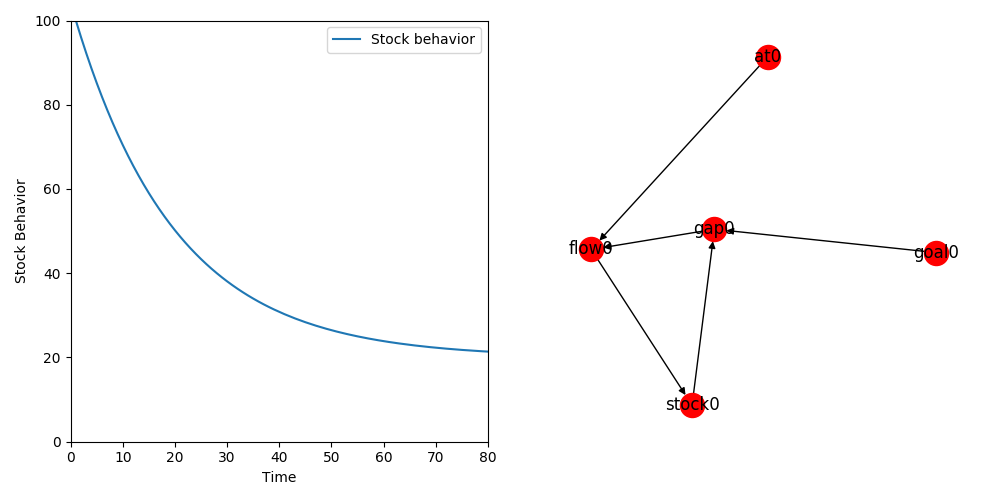
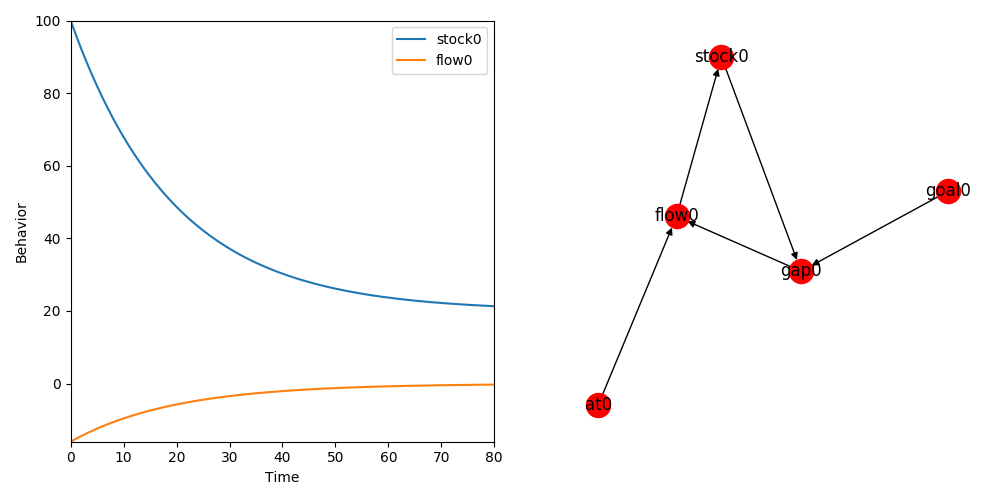
Wrapped up codes for running simulation in class 'Session'

diff --git a/__main__.py b/__main__.py
@@ -1,9 +1,8 @@
 import networkx as nx
 import matplotlib.pyplot as plt
 
+
 # define functions
-
-
 def linear(x, a=1, b=0):
     return a * float(x) + b
 
@@ -15,9 +14,8 @@ def subtract(x, y):
 def division(x, y):
     return float(x) / float(y)
 
+
 # define constants
-
-
 STOCK = 'stock'
 FLOW = 'flow'
 VARIABLE = 'variable'
@@ -28,16 +26,16 @@ DIVISION = division
 
 
 class Structure(object):
-    def __init__(self, simulation_time=20, dt=0.25):
-        self.sfd = nx.MultiDiGraph(simulation_time=simulation_time, dt=dt)  # model parameters as graph's attributes
+    def __init__(self):
+        self.sfd = nx.MultiDiGraph()
 
-    def add_element(self, name, element_type, function=None, value=None):
+    def add_element(self, element_name, element_type, function=None, value=None):
         # this 'function' is a list, containing the function it self and its parameters
         # this 'value' is also a list, containing historical value throughout this simulation
-        self.sfd.add_node(name, element_type=element_type, function=function, value=value)
+        self.sfd.add_node(element_name, element_type=element_type, function=function, value=value)
 
-    def add_causality(self, from_element, to_element, function=None):
-        self.sfd.add_edge(from_element, to_element, function)
+    def add_causality(self, from_element, to_element):
+        self.sfd.add_edge(from_element, to_element)
 
     def display_elements(self):
         print('All elements in this SFD:')
@@ -73,7 +71,7 @@ class Structure(object):
             self.sfd.nodes[name]['value'].append(new_value)  # add this new value to this node's value list
             return new_value  # return the new value to where it was called
 
-    def step(self):
+    def step(self, dt=0.25):
         flows_dt = dict()  # have a dictionary of flows and their values in this dt, to be added to stocks afterward.
 
         # find all flows in the model
@@ -83,7 +81,7 @@ class Structure(object):
 
         # calculate flows
         for flow in flows_dt.keys():
-            flows_dt[flow] = self.sfd.graph['dt'] * self.calculate(flow)
+            flows_dt[flow] = dt * self.calculate(flow)
         print('All flows dt:', flows_dt)
 
         # calculating changes in stocks
@@ -106,49 +104,48 @@ class Structure(object):
 
 
 class Session(object):
-    def __init__(self, simulation_time=13, dt=0.25):
-        self.model = Structure(simulation_time, dt)
+    def __init__(self):
+        self.simulation_time = 13
+        self.dt = 0.25
+        self.structures = dict()
+        self.add_structure()
 
-        self.simulation_time = self.model.sfd.graph['simulation_time']
-        self.dt = self.model.sfd.graph['dt']
+    def add_structure(self, structure_name='default'):
+        self.structures[structure_name] = Structure()
 
-        self.maximum_steps = int(self.simulation_time/self.dt)
+    # Set the model to a first order negative feedback loop
+    def first_order_negative(self, structure_name='default'):
+        self.structures[structure_name].add_element('stock0', STOCK, value=[100])
+        self.structures[structure_name].add_element('flow0', FLOW, function=[DIVISION, 'gap0', 'at0'], value=list())
+        self.structures[structure_name].add_causality('flow0', 'stock0')
 
-        self.model.add_element('stock0', STOCK, value=[100])
-        self.model.add_element('flow0', FLOW, function=[DIVISION, 'gap0', 'at0'], value=list())
-        self.model.add_causality('flow0', 'stock0')
+        self.structures[structure_name].add_element('goal0', PARAMETER, value=[20])
+        self.structures[structure_name].add_element('gap0', VARIABLE, function=[SUBTRACT, 'goal0', 'stock0'], value=list())
+        self.structures[structure_name].add_causality('stock0', 'gap0')
+        self.structures[structure_name].add_causality('goal0', 'gap0')
 
-        self.model.add_element('goal0', PARAMETER, value=[20])
-        self.model.add_element('gap0', VARIABLE, function=[SUBTRACT, 'goal0', 'stock0'], value=list())
-        self.model.add_causality('stock0', 'gap0')
-        self.model.add_causality('goal0', 'gap0')
+        self.structures[structure_name].add_element('at0', PARAMETER, value=[5])
+        self.structures[structure_name].add_causality('gap0', 'flow0')
+        self.structures[structure_name].add_causality('at0', 'flow0')
 
-        self.model.add_element('at0', PARAMETER, value=[5])
-        self.model.add_causality('gap0', 'flow0')
-        self.model.add_causality('at0', 'flow0')
-
-        self.model.display_elements()
-        self.model.display_element('stock0')
-        self.model.display_element('flow0')
-        self.model.display_causalities()
-        self.model.display_causality('flow0', 'stock0')
-
-    def run(self, steps=0):  # run a simulation
-        if steps == 0:  # determine how many steps to run; if not specified, use maximum steps
-            total_steps = self.maximum_steps
+    def simulate(self, structure_name='default', simulation_time=13, dt=0.25):
+        self.simulation_time = simulation_time
+        self.dt = dt
+        if simulation_time == 0:  # determine how many steps to run; if not specified, use maximum steps
+            total_steps = self.structures[structure_name].maximum_steps
         else:
-            total_steps = steps
+            total_steps = int(simulation_time/dt)
 
         # main iteration
         for i in range(total_steps):
             # stock_behavior.append(structure0.sfd.nodes['stock0']['value'])
             print('\nExecuting Step {} :\n'.format(i))
-            self.model.step()
+            self.structures[structure_name].step(dt)
 
     # Draw graphs
-    def draw_graphs(self, names=None):
-        if names == None:
-            names = list(self.model.sfd.nodes)
+    def draw_graphs(self, structure_name='default', names=None):
+        if names is None:
+            names = list(self.structures[structure_name].sfd.nodes)
 
         plt.figure(figsize=(10, 5))
         plt.subplot(121)
@@ -160,35 +157,36 @@ class Session(object):
             # set the range of axis based on this element's behavior
             # 0 -> end of period (time), 0 -> 100 (y range)
             try:
-                name_minimum = min(self.model.sfd.nodes[name]['value'])
+                name_minimum = min(self.structures[structure_name].sfd.nodes[name]['value'])
             except:  # if this element is a constant, there's no min
-                name_minimum = self.model.sfd.nodes[name]['value'][-1]
+                name_minimum = self.structures[structure_name].sfd.nodes[name]['value'][-1]
             if name_minimum < y_axis_minimum:
                 y_axis_minimum = name_minimum
 
             try:
-                name_maximum = max(self.model.sfd.nodes[name]['value'])
+                name_maximum = max(self.structures[structure_name].sfd.nodes[name]['value'])
             except:  # if this element is a constant, there's no max
-                name_maximum = self.model.sfd.nodes[name]['value'][-1]
+                name_maximum = self.structures[structure_name].sfd.nodes[name]['value'][-1]
             if name_maximum > y_axis_maximum:
                 y_axis_maximum = name_maximum
 
             plt.axis([0, self.simulation_time, y_axis_minimum, y_axis_maximum])
-            plt.plot(self.model.sfd.nodes[name]['value'], label=name)
+            plt.plot(self.structures[structure_name].sfd.nodes[name]['value'], label=name)
         plt.legend()
 
         plt.subplot(122)
         # labels = nx.get_node_attributes(structure0.sfd, 'value')
         # nx.draw(structure0.sfd, labels=labels)
-        nx.draw(self.model.sfd, with_labels=True)
+        nx.draw(self.structures[structure_name].sfd, with_labels=True)
         plt.show()
 
 
 def main():
-    sess0 = Session(simulation_time=80, dt=0.25)
-    sess0.run()
-    sess0.draw_graphs(['stock0', 'flow0'])
-    
+    sess0 = Session()
+    sess0.first_order_negative()
+    sess0.simulate(simulation_time=80)
+    sess0.draw_graphs(names=['stock0', 'flow0'])
+
 
 if __name__ == '__main__':
     main()
